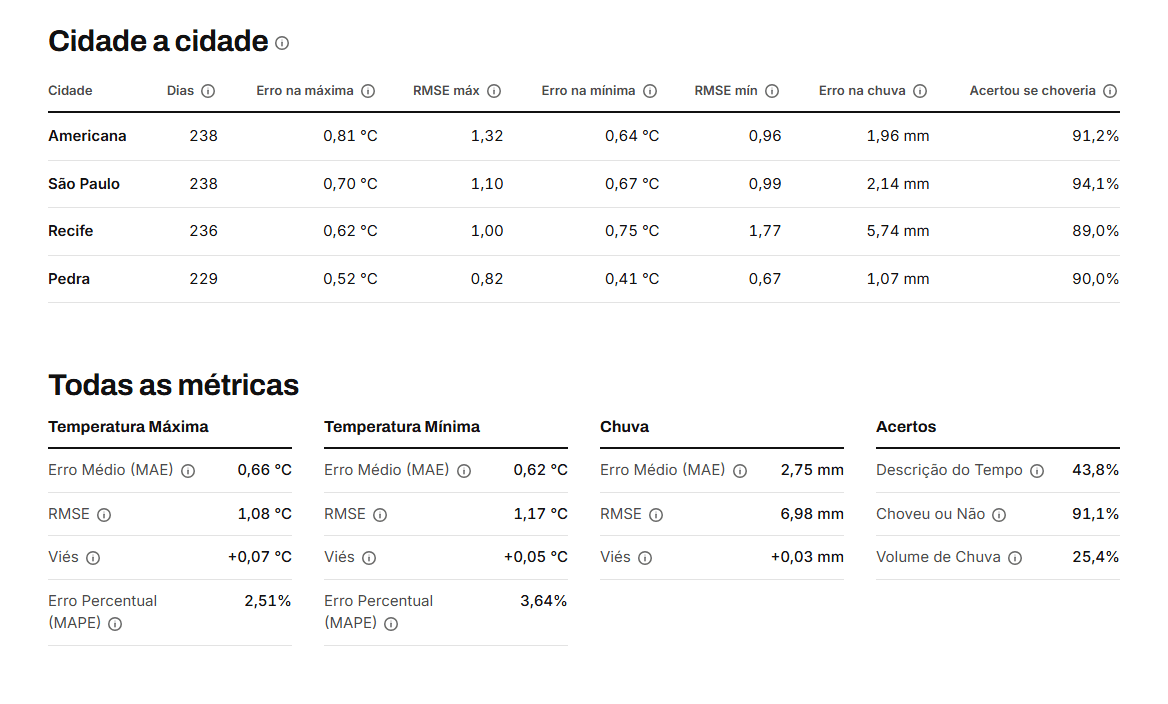
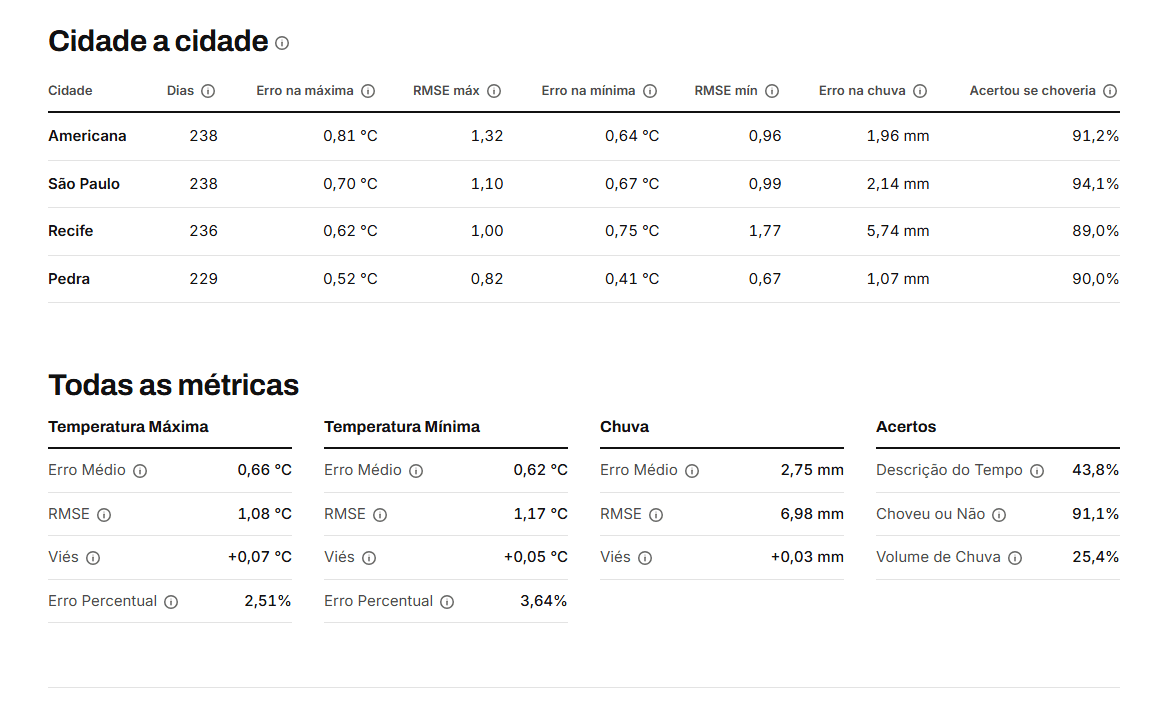
Troca as siglas MAE e MAPE pelo nome nos rótulos e nos tooltips
- "Erro Médio" e "Erro Percentual" no quadro de métricas.
- Os textos dos tooltips usam os nomes, sem as siglas.
- READMEs e print atualizados.

diff --git a/dashboard/src/lib/apresentacao/glossario.ts b/dashboard/src/lib/apresentacao/glossario.ts
@@ -11,7 +11,7 @@ const pct = (peso: number) => Math.trunc(peso * 100);
 
 export const GLOSSARIO = {
   mae:
-    "Erro médio absoluto: quanto a previsão errou, em média, por dia, sem importar se foi para mais ou para menos. " +
+    "Erro médio: quanto a previsão errou, em média, por dia, sem importar se foi para mais ou para menos. " +
     "Quanto menor, melhor. Um erro médio de 0,6 °C quer dizer que, em média, a previsão errou 0,6 °C.",
 
   rmse:
@@ -23,7 +23,7 @@ export const GLOSSARIO = {
     "do que aconteceu). Abaixo de zero: costuma subestimar. Perto de zero: os erros para mais e para menos se compensam.",
 
   mape:
-    "Erro percentual: o tamanho do erro em relação ao valor real. Um MAPE de 2% na máxima quer dizer que a previsão " +
+    "Erro percentual: o tamanho do erro em relação ao valor real. Um erro percentual de 2% na máxima quer dizer que a previsão " +
     "errou, em média, 2% do valor da temperatura. Não conta os dias em que o valor real foi zero.",
 
   erroPrevistoReal:
@@ -55,7 +55,7 @@ export const GLOSSARIO = {
     "Previsto − real, em °C. Acima de zero, a previsão foi mais quente que o dia; abaixo, mais fria.",
 
   porCidade:
-    "Erro médio (MAE) e acerto de chuva em cada cidade, do maior para o menor erro na máxima.",
+    "Erro médio e acerto de chuva em cada cidade, do maior para o menor erro na máxima.",
 
   dias: "Quantos dias de previsão foram comparados nesta cidade.",
 

diff --git a/dashboard/src/components/boletim/QuadroMetricas.tsx b/dashboard/src/components/boletim/QuadroMetricas.tsx
@@ -23,11 +23,11 @@ function Grupo({ titulo, linhas }: { titulo: string; linhas: Linha[] }) {
 
 function temperatura(t: ErrosTemperatura): Linha[] {
   return [
-    { rotulo: "Erro Médio (MAE)", valor: formatarComUnidade(t.mae, "°C"), dica: GLOSSARIO.mae },
+    { rotulo: "Erro Médio", valor: formatarComUnidade(t.mae, "°C"), dica: GLOSSARIO.mae },
     { rotulo: "RMSE", valor: formatarComUnidade(t.rmse, "°C"), dica: GLOSSARIO.rmse },
     { rotulo: "Viés", valor: formatarComUnidade(t.bias, "°C", { sinal: true }), dica: GLOSSARIO.vies },
     {
-      rotulo: "Erro Percentual (MAPE)",
+      rotulo: "Erro Percentual",
       valor: Number.isNaN(t.mape) ? "—" : `${formatarDecimal(t.mape, 2)}%`,
       dica: GLOSSARIO.mape,
     },
@@ -43,7 +43,7 @@ export function QuadroMetricas({ painel }: { painel: Painel }) {
       <Grupo
         titulo="Chuva"
         linhas={[
-          { rotulo: "Erro Médio (MAE)", valor: formatarComUnidade(painel.chuva.mae, "mm"), dica: GLOSSARIO.mae },
+          { rotulo: "Erro Médio", valor: formatarComUnidade(painel.chuva.mae, "mm"), dica: GLOSSARIO.mae },
           { rotulo: "RMSE", valor: formatarComUnidade(painel.chuva.rmse, "mm"), dica: GLOSSARIO.rmse },
           { rotulo: "Viés", valor: formatarComUnidade(painel.chuva.bias, "mm", { sinal: true }), dica: GLOSSARIO.vies },
         ]}

diff --git a/dashboard/README.md b/dashboard/README.md
@@ -2,7 +2,7 @@
 
 Dashboard em **Next.js + React** que mede a qualidade da previsão do
 Climatempo: compara a previsão coletada em D-1 com o dado de D e mostra
-métricas de erro (MAE, RMSE, Bias, MAPE), acurácias, métricas por cidade,
+métricas de erro (erro médio, RMSE, viés, erro percentual), acurácias, métricas por cidade,
 séries de erro por dia, a base comparada e o ranking por score composto.
 
 O visual é o de um boletim: abre com a conclusão em manchete, gerada a partir
@@ -45,7 +45,7 @@ src/
       NumerosPrincipais.tsx   os três números do resumo
       Ranking.tsx             ranking com barras
       ErrosPorDia.tsx         erro de chuva e de temperatura por dia
-      QuadroMetricas.tsx      MAE, RMSE, viés, MAPE e acertos
+      QuadroMetricas.tsx      erro médio, RMSE, viés, erro percentual e acertos
       BaseComparada.tsx       base de pares D-1 -> D, recolhida
       ComoMedimos.tsx, Rodape.tsx, Cabecalho.tsx
       colunas.ts              colunas das duas tabelas
@@ -113,8 +113,8 @@ teste junto.
 - **Leitura ilegível é ausente, não zero.** O `-` que o site às vezes devolve no
   lugar da temperatura, e a chuva vazia, viram `null`. O dbt antigo convertia
   isso em 0 sem avisar.
-- **Explicações em tooltips, não em rodapé.** Cada termo técnico (MAE, RMSE,
-  viés, MAPE, acertos, score) tem um ícone "?" ao lado com a explicação, em
+- **Explicações em tooltips, não em rodapé.** Cada termo técnico (erro médio,
+  RMSE, viés, erro percentual, acertos, score) tem um ícone "?" ao lado com a explicação, em
   `components/ui/Dica.tsx`. Os textos ficam em `lib/apresentacao/glossario.ts`,
   com os pesos e limites vindos das mesmas constantes do cálculo. O balão abre
   com mouse, teclado (foco) ou toque, fecha com Esc ou ao tocar fora, e tem

diff --git a/README.md b/README.md
@@ -55,7 +55,7 @@ Compara a previsão coletada em D-1 com o dado observado em D.
 
 Métricas calculadas:
 
-* MAE, RMSE, viés e MAPE da temperatura máxima e mínima, e MAE, RMSE e viés da chuva
+* Erro médio, RMSE, viés e erro percentual da temperatura máxima e mínima, e erro médio, RMSE e viés da chuva
 * Acerto de "choveu ou não", do volume de chuva e da descrição do tempo
 * Score composto por cidade, que gera o ranking
 
